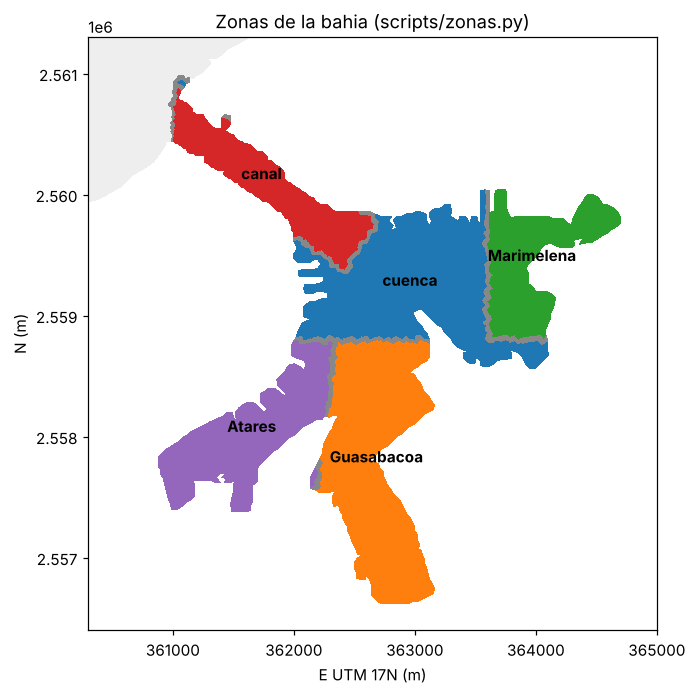
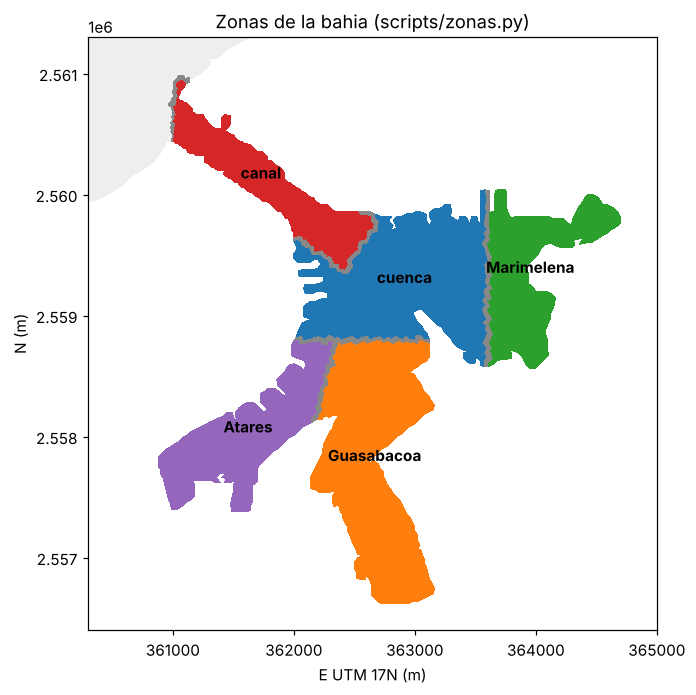
Zonas corregidas con Alex: orilla O de Guasabacoa y orilla S de Marimelena
Claude-Session: https://claude.ai/code/session_011ZQy6j6faxb4dHyc5rKgZH

diff --git a/scripts/zonas.py b/scripts/zonas.py
@@ -11,8 +11,8 @@ def zonas(x, y, en_bahia):
     s, n = dx * np.sin(t) + dy * np.cos(t), dx * np.cos(t) - dy * np.sin(t)
     z = np.where(en_bahia, 2, 0)
     sur = (y < 2558800) & (x < 363300)
-    z[en_bahia & sur & (x < 362350 - 0.14 * (2558800 - y))] = 5
-    z[en_bahia & sur & (x >= 362350 - 0.14 * (2558800 - y))] = 4
-    z[en_bahia & (x > 363600) & (y > 2558800)] = 3
-    z[en_bahia & (np.abs(s) <= MEDIO_LARGO) & (np.abs(n) <= MEDIO_ANCHO)] = 1
+    z[en_bahia & sur & (x < 362350 - 0.25 * (2558800 - y))] = 5
+    z[en_bahia & sur & (x >= 362350 - 0.25 * (2558800 - y))] = 4
+    z[en_bahia & (x > 363600)] = 3            # todo el lobulo E, tambien su orilla sur (corregido con Alex, 17-oct)
+    z[en_bahia & (((np.abs(s) <= MEDIO_LARGO) & (np.abs(n) <= MEDIO_ANCHO)) | (y > 2560400))] = 1   # y la punta de la boca
     return z

diff --git a/docs/00_estado_y_plan.md b/docs/00_estado_y_plan.md
@@ -548,7 +548,7 @@ Descargado (`datos/batimetria/fuentes/descargas.tsv` con URL, fecha y sha256):
 **17 oct — primera corrida en Lemaitre4 y posproceso.**
 - Prueba de 2 miembros (array 7965067, m0000–m0001, M2 provisional): arranca y avanza ~0,75 días de modelo por minuto con 4+2 núcleos (~2 h por miembro de 90 d, más rápido que NIC5). 25 días = 77 MB de salida.
 - **AGE_1 ya es la edad en días** (comprobado en el código: `schism_step.F90` escribe α/C/86400; hay ntracer_age/2 salidas). Una primera suposición mía (AGE_1 = concentración, añadir AGE_2) era errónea y está deshecha; `posproceso.py` trata AGE_1 como edad.
-- `scripts/zonas.py` + `docs/figuras/zonas.png`: canal (995 nodos), cuenca principal (1018), Marimelena (430), Guasabacoa (936), Atarés (622). Límites trazados a mano; pendiente de que Alex los confirme.
+- `scripts/zonas.py` + `docs/figuras/zonas.png`: canal (995 nodos), cuenca principal (954), Marimelena (494), Guasabacoa (967), Atarés (591). Límites trazados a mano y corregidos con Alex el 17-oct (orilla O de Guasabacoa y orilla S de Marimelena).
 - `scripts/posproceso_malla.py` → `datos/conjunto/posproceso_malla.npz`: zona y área por nodo, pesos baricéntricos a la rejilla Sentinel-2 (252 × 238 celdas de 20 m) y a una sección del canal (33 puntos, 330 m). Autoprueba: reproduce un campo lineal y el área total.
 - `scripts/posproceso.py` (solo numpy + netCDF4, corre en el cluster dentro del array): por zona y bahía, serie de la edad media, deriva de la edad en los últimos 10 d (¿estacionario?); edad media, p10/p50/p90 y fracción de volumen con edad > 30 d; mapas de superficie y fondo; caudal neto y bruto por el canal; superficie a las 16:00 UTC en la rejilla S2 (30 imágenes). Autoprueba con campos sintéticos (edad τ(1−e^(−t/τ)) con τ = 20 d, caudal conocido): ok. Si sale bien, el array borra los `.nc` (salvo m0000–m0001). Salidas cada 4 h para tener las 16 UTC.
 - **Primer posproceso real (m0000 a los 31 días, en curso):** sin NaN; marea en la bahía 15,7 cm; **caudal bruto por el canal 69 m³/s** (prisma 4,91 km² × 0,30 m cada 12,42 h → 66 m³/s: coincide), neto 0,04 m³/s (sin ríos, ≈ 0). Edad media de los días 1–31 (aún en crecimiento): canal 3,7 d, cuenca 7,8, Marimelena 8,3, Guasabacoa 8,6, Atarés 9,5. vmax 2,99 m/s en todo el dominio (este miembro tiene Cd 0,0015: la esquina del borde crece con poca fricción) → el posproceso da también vmax dentro de la bahía.
